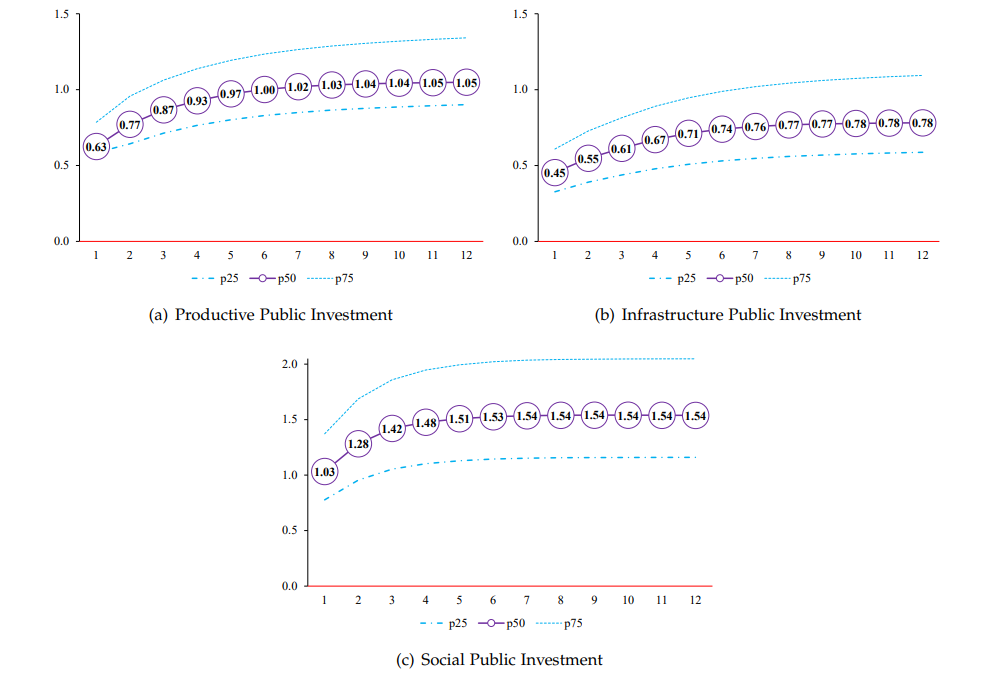
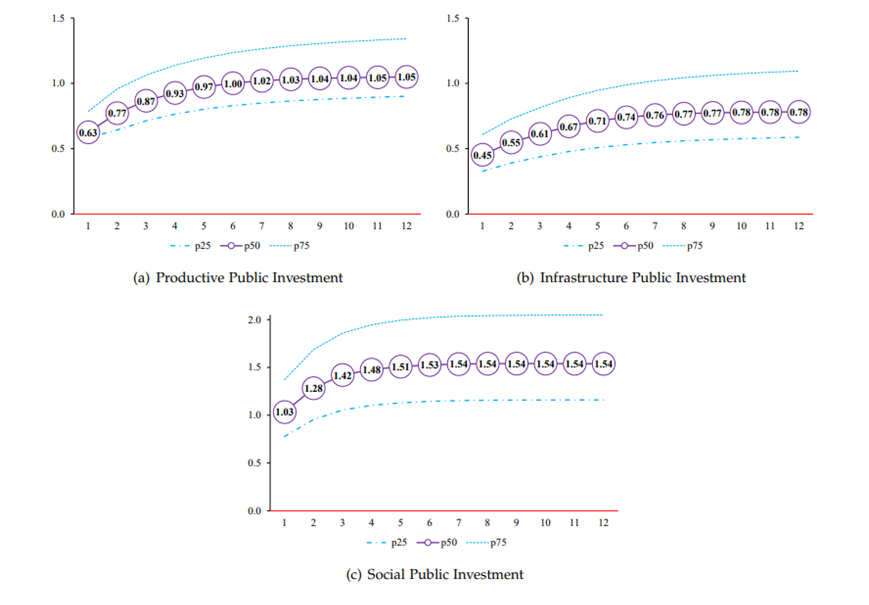
fix images

diff --git a/R_Fiscal_Multiplier.html b/R_Fiscal_Multiplier.html
@@ -252,7 +252,7 @@ M_T = \frac{\sum_{t=1}^T \Delta PIB_t}{\sum_{t=1}^T \Delta g_t}
 <p>The identification strategy is designed to capture the dynamics of key structural shocks affecting the Bolivian economy, summarized in Table 2.</p>
 <div style="text-align:center;">
 <div class="float">
-<img src="Fiscal_multipliers/tab_1.PNG" style="width:70.0%;height:80.0%" alt="Table 2. Identification Strategy for Structural Shocks" />
+<img src="Fiscal_multipliers/tab_identif.png" style="width:65.0%;height:65.0%" alt="Table 2. Identification Strategy for Structural Shocks" />
 <div class="figcaption">Table 2. Identification Strategy for Structural Shocks</div>
 </div>
 </div>
@@ -279,7 +279,7 @@ M_T = \frac{\sum_{t=1}^T \Delta PIB_t}{\sum_{t=1}^T \Delta g_t}
 <p>The analysis reveals that among the three major public investment categories, social investment yields the highest multiplier effect, making it the most cost-effective. Figure 1 presents an overview of multiplier effects for public investment across Productive, Infrastructure, and Social sectors.</p>
 <div style="text-align:center;">
 <div class="float">
-<img src="Fiscal_multipliers/fig_1.PNG" style="width:70.0%;height:80.0%" alt="Figure 1. Multiplier Effect on Nominal GDP of Public Investment, Current Expenditure, and Tax Revenue Shocks. Note: Results represent the median of posterior distributions from Impulse Response Functions. Values indicate the expected monetary increase in nominal GDP following shocks that increase fiscal variables by 1 unit." />
+<img src="Fiscal_multipliers/fig_1.PNG" style="width:80.0%;height:80.0%" alt="Figure 1. Multiplier Effect on Nominal GDP of Public Investment, Current Expenditure, and Tax Revenue Shocks. Note: Results represent the median of posterior distributions from Impulse Response Functions. Values indicate the expected monetary increase in nominal GDP following shocks that increase fiscal variables by 1 unit." />
 <div class="figcaption">Figure 1. Multiplier Effect on Nominal GDP of Public Investment, Current Expenditure, and Tax Revenue Shocks. Note: Results represent the median of posterior distributions from Impulse Response Functions. Values indicate the expected monetary increase in nominal GDP following shocks that increase fiscal variables by 1 unit.</div>
 </div>
 </div>
